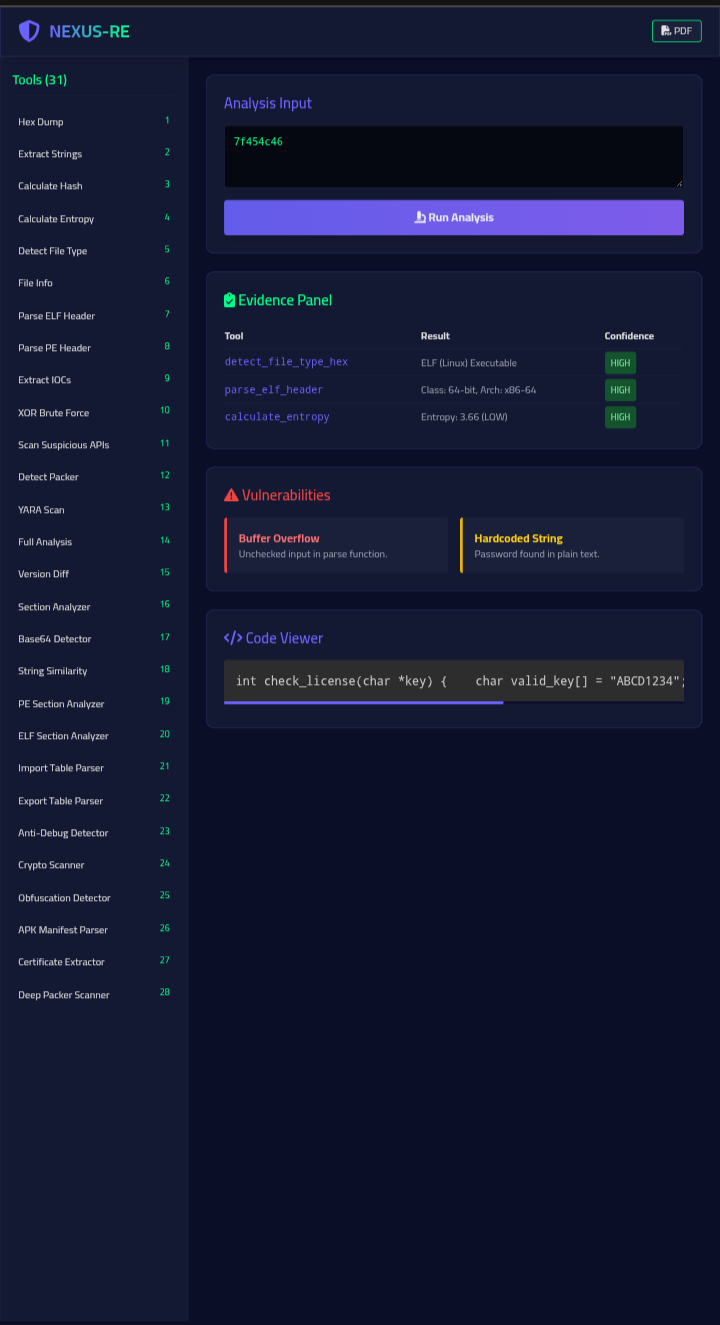
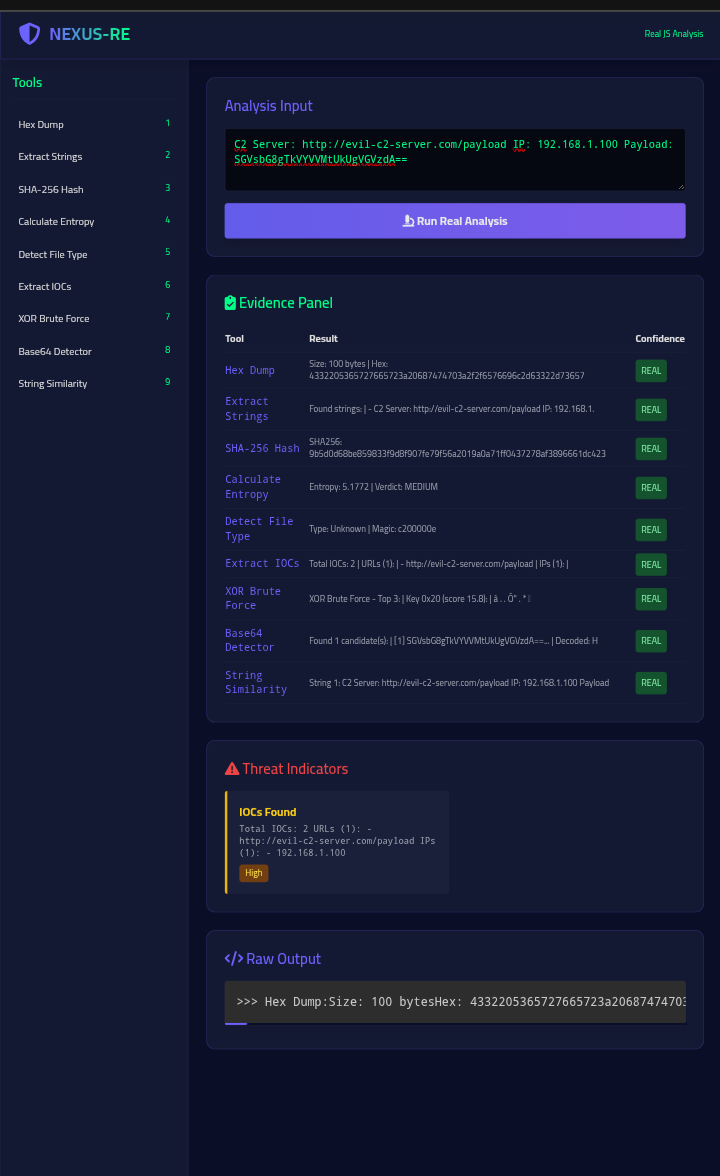
Add real analysis screenshot (#12)
* Update real JS analysis screenshot

* Update README with real screenshot

diff --git a/README.md b/README.md
@@ -448,8 +448,11 @@ Register with any MCP-compatible agent (Claude Code, Cursor) via mcp.json.
 
 🚀 **Try NEXUS-RE Now:** [https://qamar-sobhy-nexus-re-api.static.hf.space](https://qamar-sobhy-nexus-re-api.static.hf.space)
 
+![NEXUS-RE Live Analysis](docs/new_dashboard.png)
 
-![NEXUS-RE Dashboard](docs/screenshot.png)
+
+
+
 
 The live dashboard includes:
 - 31 interactive analysis tools
